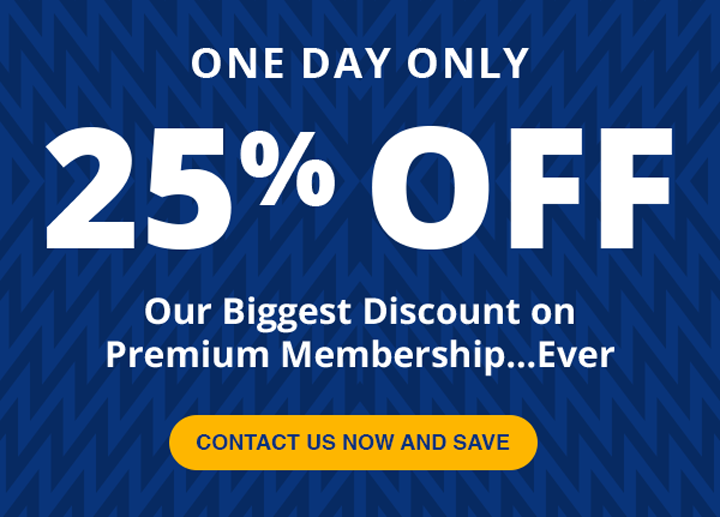
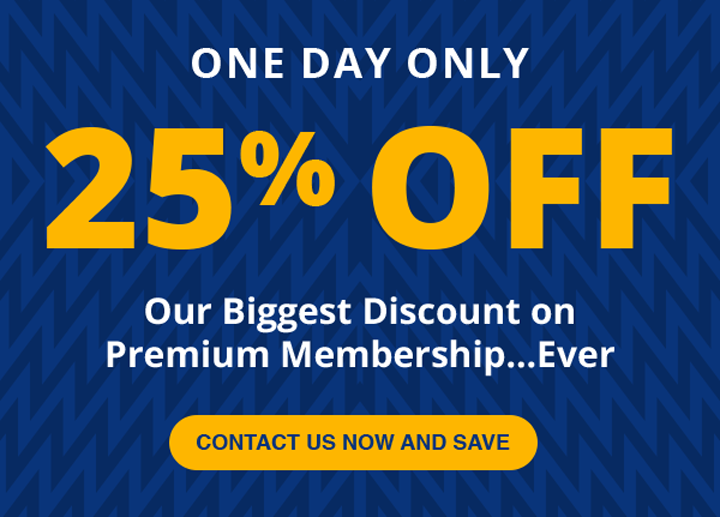
Finish Flash Sale Template

diff --git a/dist/flash.html b/dist/flash.html
@@ -154,38 +154,38 @@ a[href^=tel],
                 </td>
             </tr>
             <tr>
-                <td  style="text-align: left; padding: 0 30px 20px;" align="left">
+                <td style="text-align: left;" align="left">
                     <table border="0" cellspacing="0" cellpadding="0" align="center"  style="table-layout: fixed; border-collapse: collapse; width: 600px;" width="600">
                         <tr>
-                            <td  style="color: #09347a; font-size: 20px; line-height: 1.2; text-align: center; width: 100%;" width="100%" align="center">
-                                <p style="color: #000000; text-align: left; margin: 0; font: 16px/1.5 Arial, sans-serif;">Premium Membership offers multiple benefits:</p>
+                            <td  style="color: #09347a; font-size: 20px; line-height: 1.2; padding: 31px 30px 23px; text-align: center; width: 100%;" width="100%" align="center">
+                                <p style="color: #09347a; font-size: 20px; margin: 0; font: 16px/1.5 Arial, sans-serif;"><strong style="color: #09347a; font-size: 20px;">Premium Membership offers multiple benefits:</strong></p>
                             </td>
                         </tr>
                         <tr>
-                            <td  style="text-align: center; width: 100%;" width="100%" align="center">
-                                <p style="color: #000000; text-align: left; margin: 0; font: 16px/1.5 Arial, sans-serif;"><a href="#" target="_blank" style="text-decoration: none; cursor: pointer; color: #000000;">Increased Exposure</a>. Premium Placements enhance your visibility for your practice area(s) across an entire metro area on the Justia & LII lawyer directories.</p>
+                            <td  style="padding: 0 30px 23px; text-align: center; width: 100%;" width="100%" align="center">
+                                <p style="color: #000000; text-align: left; margin: 0; font: 16px/1.5 Arial, sans-serif;"><a href="#" target="_blank" style="text-decoration: none; cursor: pointer; color: #09347a;"><strong style="color: #09347a;">Increased Exposure</strong></a>. Premium Placements enhance your visibility for your practice area(s) across an entire metro area on the Justia & LII lawyer directories.</p>
                             </td>
                         </tr>
                         <tr>
-                            <td  style="text-align: center; width: 100%;" width="100%" align="center">
-                                <p style="color: #000000; text-align: left; margin: 0; font: 16px/1.5 Arial, sans-serif;"><a href="#" target="_blank" style="text-decoration: none; cursor: pointer; color: #000000;">Increased Interaction with Potential Clients</a>. Premium Profiles feature contact forms. Competitor ads are also removed from your profile.</p>
+                            <td  style="padding: 0 30px 23px; text-align: center; width: 100%;" width="100%" align="center">
+                                <p style="color: #000000; text-align: left; margin: 0; font: 16px/1.5 Arial, sans-serif;"><a href="#" target="_blank" style="text-decoration: none; cursor: pointer; color: #09347a;"><strong style="color: #09347a;">Increased Interaction with Potential Clients</strong></a>. Premium Profiles feature contact forms. Competitor ads are also removed from your profile.</p>
                             </td>
                         </tr>
                         <tr>
-                            <td  style="text-align: center; width: 100%;" width="100%" align="center">
-                                <p style="color: #000000; text-align: left; margin: 0; font: 16px/1.5 Arial, sans-serif;"><a href="#" target="_blank" style="text-decoration: none; cursor: pointer; color: #000000;">Access to Traffic Statistics</a>. View traffic stats of your visibility on the Justia & LII lawyer directories and legal portals.</p>
+                            <td  style="padding: 0 30px 23px; text-align: center; width: 100%;" width="100%" align="center">
+                                <p style="color: #000000; text-align: left; margin: 0; font: 16px/1.5 Arial, sans-serif;"><a href="#" target="_blank" style="text-decoration: none; cursor: pointer; color: #09347a;"><strong style="color: #09347a;">Access to Traffic Statistics</strong></a>. View traffic stats of your visibility on the Justia & LII lawyer directories and legal portals.</p>
                             </td>
                         </tr>
                         <tr>
-                            <td  style="padding: 0 30px 20px; text-align: center; width: 100%;" width="100%" align="center">
-                                <p  style="color: #000000; text-align: left; margin: 0; font: 16px/1.5 Arial, sans-serif;">Justia Lawyer Directory Team</p>
-                                <p  style="color: #000000; text-align: left; margin: 0; font: 18px/1.3 Arial, sans-serif !important;"><strong style="color: #000000;"><a href="tel:8885878421" target="_blank" style="text-decoration: none; cursor: pointer; color: #09347a !important;">(888) 587-8421</a></strong></p>
+                            <td  style="padding: 4px 30px 45px; text-align: center; width: 100%;" width="100%" align="center">
+                                <p  style="color: #000000; font-size: 18px !important; line-height: 1.2 !important; margin: 0; font: 16px/1.5 Arial, sans-serif;">Justia Lawyer Directory Team</p>
+                                <p  style="color: #000000; margin: 0; font: 18px/1.3 Arial, sans-serif !important;"><strong style="color: #000000;"><a href="tel:8885878421" target="_blank" style="text-decoration: none; cursor: pointer; color: #09347a !important; line-height: 1.2 !important; font-size: 20px !important;">(888) 587-8421</a></strong></p>
                             </td>
                         </tr>
                         <tr>
-                            <td  style="padding: 0 30px 25px; text-align: center; width: 100%;" width="100%" align="center">
-                                <p style="color: #000000; text-align: left; margin: 0; font: 12px/1.5 Arial, sans-serif !important;"><em>*Discount valid on any new yearly or three year premium placement subscriptions.</em></p>
-                                <p style="color: #000000; text-align: left; margin: 0; font: 12px/1.5 Arial, sans-serif !important;"><em>This offer expires 24 hours from receipt of this email.</em></p>
+                            <td  style="padding: 0 30px 34px; text-align: center; width: 100%;" width="100%" align="center">
+                                <p style="color: #000000; text-align: center; font-style: italic; font-size: 14px; margin: 0; font: 12px/1.5 Arial, sans-serif !important;"><em style="text-align: center; font-style: italic; font-size: 14px;">*Discount valid on any new yearly or three year premium placement subscriptions.</em></p>
+                                <p style="color: #000000; text-align: center; font-style: italic; font-size: 14px; margin: 0; font: 12px/1.5 Arial, sans-serif !important;"><em style="text-align: center; font-style: italic; font-size: 14px;">This offer expires 24 hours from receipt of this email.</em></p>
                             </td>
                         </tr>
                     </table>

diff --git a/src/css/scss/partials/components/_flash.scss b/src/css/scss/partials/components/_flash.scss
@@ -2,7 +2,6 @@
 // ----------------------------------------------------------------------------------------------------------
 // F L A S H    S A  L E
 // ----------------------------------------------------------------------------------------------------------
-
 $flash-background--dimensions: image-dimensions('/src/img/flash-main-image-01.png');
 $flash-image-01--dimensions: image-dimensions('/src/img/flash-animated.gif');
 
@@ -56,22 +55,57 @@ $flash-image-01--dimensions: image-dimensions('/src/img/flash-animated.gif');
         }
     }
 
-    .main-content {
-        padding: 0 $padding 20px;
+    .title {
+        text-align: center;
+        padding: 31px $padding 23px;
+
+        p,
+        strong {
+            color: #09347a;
+            font-size: 20px;
+        }
+    }
+
+    .info {
         text-align: left;
+        padding: 0 $padding 23px;
 
         p {
             text-align: left;
         }
+
+        strong,
+        a {
+            color: #09347a;
+        }
     }
 
     .contactus {
+        padding: 4px $padding 45px;
+
+        .tagline {
+            font-size: 18px !important;
+            line-height: 1.2 !important;
+        }
 
         .phone {
-
             a {
+                line-height: 1.2 !important;
+                font-size: 20px !important;
                 color: #09347a !important;
             }
+        }
+    }
+
+    .expiration {
+        padding: 0 $padding 34px;
+        text-align: center;
+
+        p,
+        em {
+            text-align: center;
+            font-style: italic;
+            font-size: 14px;
         }
     }
 }

diff --git a/src/css/main.css b/src/css/main.css
@@ -283,17 +283,56 @@ body {
   Margin: 0 auto;
 }
 
-.flash .main-content {
-  padding: 0 30px 20px;
+.flash .title {
+  text-align: center;
+  padding: 31px 30px 23px;
+}
+
+.flash .title p,
+.flash .title strong {
+  color: #09347a;
+  font-size: 20px;
+}
+
+.flash .info {
+  text-align: left;
+  padding: 0 30px 23px;
+}
+
+.flash .info p {
   text-align: left;
 }
 
-.flash .main-content p {
-  text-align: left;
+.flash .info strong,
+.flash .info a {
+  color: #09347a;
+}
+
+.flash .contactus {
+  padding: 4px 30px 45px;
+}
+
+.flash .contactus .tagline {
+  font-size: 18px !important;
+  line-height: 1.2 !important;
 }
 
 .flash .contactus .phone a {
+  line-height: 1.2 !important;
+  font-size: 20px !important;
   color: #09347a !important;
+}
+
+.flash .expiration {
+  padding: 0 30px 34px;
+  text-align: center;
+}
+
+.flash .expiration p,
+.flash .expiration em {
+  text-align: center;
+  font-style: italic;
+  font-size: 14px;
 }
 
 .grade .description {
